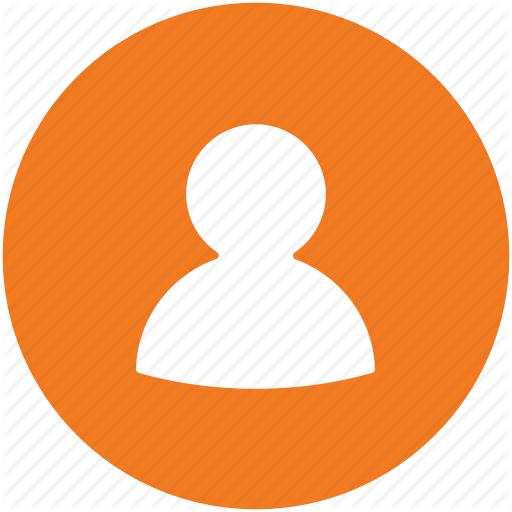
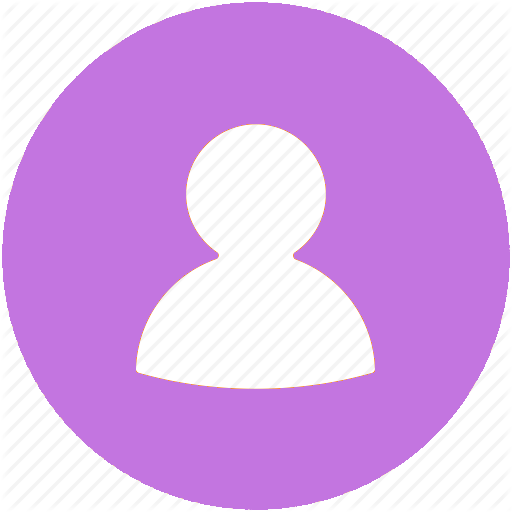
comments editable and deletable

diff --git a/app/assets/javascripts/prism.js b/app/assets/javascripts/prism.js
@@ -1,0 +1,5 @@
+/* PrismJS 1.17.1
+https://prismjs.com/download.html#themes=prism&languages=markup+visual-basic */
+var _self="undefined"!=typeof window?window:"undefined"!=typeof WorkerGlobalScope&&self instanceof WorkerGlobalScope?self:{},Prism=function(u){var c=/\blang(?:uage)?-([\w-]+)\b/i,a=0;var _={manual:u.Prism&&u.Prism.manual,disableWorkerMessageHandler:u.Prism&&u.Prism.disableWorkerMessageHandler,util:{encode:function(e){return e instanceof L?new L(e.type,_.util.encode(e.content),e.alias):Array.isArray(e)?e.map(_.util.encode):e.replace(/&/g,"&amp;").replace(/</g,"&lt;").replace(/\u00a0/g," ")},type:function(e){return Object.prototype.toString.call(e).slice(8,-1)},objId:function(e){return e.__id||Object.defineProperty(e,"__id",{value:++a}),e.__id},clone:function n(e,r){var t,a,i=_.util.type(e);switch(r=r||{},i){case"Object":if(a=_.util.objId(e),r[a])return r[a];for(var o in t={},r[a]=t,e)e.hasOwnProperty(o)&&(t[o]=n(e[o],r));return t;case"Array":return a=_.util.objId(e),r[a]?r[a]:(t=[],r[a]=t,e.forEach(function(e,a){t[a]=n(e,r)}),t);default:return e}}},languages:{extend:function(e,a){var n=_.util.clone(_.languages[e]);for(var r in a)n[r]=a[r];return n},insertBefore:function(n,e,a,r){var t=(r=r||_.languages)[n],i={};for(var o in t)if(t.hasOwnProperty(o)){if(o==e)for(var l in a)a.hasOwnProperty(l)&&(i[l]=a[l]);a.hasOwnProperty(o)||(i[o]=t[o])}var s=r[n];return r[n]=i,_.languages.DFS(_.languages,function(e,a){a===s&&e!=n&&(this[e]=i)}),i},DFS:function e(a,n,r,t){t=t||{};var i=_.util.objId;for(var o in a)if(a.hasOwnProperty(o)){n.call(a,o,a[o],r||o);var l=a[o],s=_.util.type(l);"Object"!==s||t[i(l)]?"Array"!==s||t[i(l)]||(t[i(l)]=!0,e(l,n,o,t)):(t[i(l)]=!0,e(l,n,null,t))}}},plugins:{},highlightAll:function(e,a){_.highlightAllUnder(document,e,a)},highlightAllUnder:function(e,a,n){var r={callback:n,selector:'code[class*="language-"], [class*="language-"] code, code[class*="lang-"], [class*="lang-"] code'};_.hooks.run("before-highlightall",r);for(var t,i=e.querySelectorAll(r.selector),o=0;t=i[o++];)_.highlightElement(t,!0===a,r.callback)},highlightElement:function(e,a,n){var r=function(e){for(;e&&!c.test(e.className);)e=e.parentNode;return e?(e.className.match(c)||[,"none"])[1].toLowerCase():"none"}(e),t=_.languages[r];e.className=e.className.replace(c,"").replace(/\s+/g," ")+" language-"+r;var i=e.parentNode;i&&"pre"===i.nodeName.toLowerCase()&&(i.className=i.className.replace(c,"").replace(/\s+/g," ")+" language-"+r);var o={element:e,language:r,grammar:t,code:e.textContent};function l(e){o.highlightedCode=e,_.hooks.run("before-insert",o),o.element.innerHTML=o.highlightedCode,_.hooks.run("after-highlight",o),_.hooks.run("complete",o),n&&n.call(o.element)}if(_.hooks.run("before-sanity-check",o),!o.code)return _.hooks.run("complete",o),void(n&&n.call(o.element));if(_.hooks.run("before-highlight",o),o.grammar)if(a&&u.Worker){var s=new Worker(_.filename);s.onmessage=function(e){l(e.data)},s.postMessage(JSON.stringify({language:o.language,code:o.code,immediateClose:!0}))}else l(_.highlight(o.code,o.grammar,o.language));else l(_.util.encode(o.code))},highlight:function(e,a,n){var r={code:e,grammar:a,language:n};return _.hooks.run("before-tokenize",r),r.tokens=_.tokenize(r.code,r.grammar),_.hooks.run("after-tokenize",r),L.stringify(_.util.encode(r.tokens),r.language)},matchGrammar:function(e,a,n,r,t,i,o){for(var l in n)if(n.hasOwnProperty(l)&&n[l]){var s=n[l];s=Array.isArray(s)?s:[s];for(var u=0;u<s.length;++u){if(o&&o==l+","+u)return;var c=s[u],g=c.inside,f=!!c.lookbehind,h=!!c.greedy,d=0,m=c.alias;if(h&&!c.pattern.global){var p=c.pattern.toString().match(/[imsuy]*$/)[0];c.pattern=RegExp(c.pattern.source,p+"g")}c=c.pattern||c;for(var y=r,v=t;y<a.length;v+=a[y].length,++y){var k=a[y];if(a.length>e.length)return;if(!(k instanceof L)){if(h&&y!=a.length-1){if(c.lastIndex=v,!(x=c.exec(e)))break;for(var b=x.index+(f&&x[1]?x[1].length:0),w=x.index+x[0].length,A=y,P=v,O=a.length;A<O&&(P<w||!a[A].type&&!a[A-1].greedy);++A)(P+=a[A].length)<=b&&(++y,v=P);if(a[y]instanceof L)continue;j=A-y,k=e.slice(v,P),x.index-=v}else{c.lastIndex=0;var x=c.exec(k),j=1}if(x){f&&(d=x[1]?x[1].length:0);w=(b=x.index+d)+(x=x[0].slice(d)).length;var N=k.slice(0,b),S=k.slice(w),C=[y,j];N&&(++y,v+=N.length,C.push(N));var E=new L(l,g?_.tokenize(x,g):x,m,x,h);if(C.push(E),S&&C.push(S),Array.prototype.splice.apply(a,C),1!=j&&_.matchGrammar(e,a,n,y,v,!0,l+","+u),i)break}else if(i)break}}}}},tokenize:function(e,a){var n=[e],r=a.rest;if(r){for(var t in r)a[t]=r[t];delete a.rest}return _.matchGrammar(e,n,a,0,0,!1),n},hooks:{all:{},add:function(e,a){var n=_.hooks.all;n[e]=n[e]||[],n[e].push(a)},run:function(e,a){var n=_.hooks.all[e];if(n&&n.length)for(var r,t=0;r=n[t++];)r(a)}},Token:L};function L(e,a,n,r,t){this.type=e,this.content=a,this.alias=n,this.length=0|(r||"").length,this.greedy=!!t}if(u.Prism=_,L.stringify=function(e,a){if("string"==typeof e)return e;if(Array.isArray(e))return e.map(function(e){return L.stringify(e,a)}).join("");var n={type:e.type,content:L.stringify(e.content,a),tag:"span",classes:["token",e.type],attributes:{},language:a};if(e.alias){var r=Array.isArray(e.alias)?e.alias:[e.alias];Array.prototype.push.apply(n.classes,r)}_.hooks.run("wrap",n);var t=Object.keys(n.attributes).map(function(e){return e+'="'+(n.attributes[e]||"").replace(/"/g,"&quot;")+'"'}).join(" ");return"<"+n.tag+' class="'+n.classes.join(" ")+'"'+(t?" "+t:"")+">"+n.content+"</"+n.tag+">"},!u.document)return u.addEventListener&&(_.disableWorkerMessageHandler||u.addEventListener("message",function(e){var a=JSON.parse(e.data),n=a.language,r=a.code,t=a.immediateClose;u.postMessage(_.highlight(r,_.languages[n],n)),t&&u.close()},!1)),_;var e=document.currentScript||[].slice.call(document.getElementsByTagName("script")).pop();if(e&&(_.filename=e.src,e.hasAttribute("data-manual")&&(_.manual=!0)),!_.manual){function n(){_.manual||_.highlightAll()}"loading"!==document.readyState?window.requestAnimationFrame?window.requestAnimationFrame(n):window.setTimeout(n,16):document.addEventListener("DOMContentLoaded",n)}return _}(_self);"undefined"!=typeof module&&module.exports&&(module.exports=Prism),"undefined"!=typeof global&&(global.Prism=Prism);
+Prism.languages.markup={comment:/<!--[\s\S]*?-->/,prolog:/<\?[\s\S]+?\?>/,doctype:{pattern:/<!DOCTYPE(?:[^>"'[\]]|"[^"]*"|'[^']*')+(?:\[(?:(?!<!--)[^"'\]]|"[^"]*"|'[^']*'|<!--[\s\S]*?-->)*\]\s*)?>/i,greedy:!0},cdata:/<!\[CDATA\[[\s\S]*?]]>/i,tag:{pattern:/<\/?(?!\d)[^\s>\/=$<%]+(?:\s(?:\s*[^\s>\/=]+(?:\s*=\s*(?:"[^"]*"|'[^']*'|[^\s'">=]+(?=[\s>]))|(?=[\s/>])))+)?\s*\/?>/i,greedy:!0,inside:{tag:{pattern:/^<\/?[^\s>\/]+/i,inside:{punctuation:/^<\/?/,namespace:/^[^\s>\/:]+:/}},"attr-value":{pattern:/=\s*(?:"[^"]*"|'[^']*'|[^\s'">=]+)/i,inside:{punctuation:[/^=/,{pattern:/^(\s*)["']|["']$/,lookbehind:!0}]}},punctuation:/\/?>/,"attr-name":{pattern:/[^\s>\/]+/,inside:{namespace:/^[^\s>\/:]+:/}}}},entity:/&#?[\da-z]{1,8};/i},Prism.languages.markup.tag.inside["attr-value"].inside.entity=Prism.languages.markup.entity,Prism.hooks.add("wrap",function(a){"entity"===a.type&&(a.attributes.title=a.content.replace(/&amp;/,"&"))}),Object.defineProperty(Prism.languages.markup.tag,"addInlined",{value:function(a,e){var s={};s["language-"+e]={pattern:/(^<!\[CDATA\[)[\s\S]+?(?=\]\]>$)/i,lookbehind:!0,inside:Prism.languages[e]},s.cdata=/^<!\[CDATA\[|\]\]>$/i;var n={"included-cdata":{pattern:/<!\[CDATA\[[\s\S]*?\]\]>/i,inside:s}};n["language-"+e]={pattern:/[\s\S]+/,inside:Prism.languages[e]};var t={};t[a]={pattern:RegExp("(<__[\\s\\S]*?>)(?:<!\\[CDATA\\[[\\s\\S]*?\\]\\]>\\s*|[\\s\\S])*?(?=<\\/__>)".replace(/__/g,a),"i"),lookbehind:!0,greedy:!0,inside:n},Prism.languages.insertBefore("markup","cdata",t)}}),Prism.languages.xml=Prism.languages.extend("markup",{}),Prism.languages.html=Prism.languages.markup,Prism.languages.mathml=Prism.languages.markup,Prism.languages.svg=Prism.languages.markup;
+Prism.languages["visual-basic"]={comment:{pattern:/(?:['‘’]|REM\b).*/i,inside:{keyword:/^REM/i}},directive:{pattern:/#(?:Const|Else|ElseIf|End|ExternalChecksum|ExternalSource|If|Region)(?:[^\S\r\n]_[^\S\r\n]*(?:\r\n?|\n)|.)+/i,alias:"comment",greedy:!0},string:{pattern:/\$?["“”](?:["“”]{2}|[^"“”])*["“”]C?/i,greedy:!0},date:{pattern:/#[^\S\r\n]*(?:\d+([/-])\d+\1\d+(?:[^\S\r\n]+(?:\d+[^\S\r\n]*(?:AM|PM)|\d+:\d+(?::\d+)?(?:[^\S\r\n]*(?:AM|PM))?))?|(?:\d+[^\S\r\n]*(?:AM|PM)|\d+:\d+(?::\d+)?(?:[^\S\r\n]*(?:AM|PM))?))[^\S\r\n]*#/i,alias:"builtin"},number:/(?:(?:\b\d+(?:\.\d+)?|\.\d+)(?:E[+-]?\d+)?|&[HO][\dA-F]+)(?:U?[ILS]|[FRD])?/i,boolean:/\b(?:True|False|Nothing)\b/i,keyword:/\b(?:AddHandler|AddressOf|Alias|And(?:Also)?|As|Boolean|ByRef|Byte|ByVal|Call|Case|Catch|C(?:Bool|Byte|Char|Date|Dbl|Dec|Int|Lng|Obj|SByte|Short|Sng|Str|Type|UInt|ULng|UShort)|Char|Class|Const|Continue|Date|Decimal|Declare|Default|Delegate|Dim|DirectCast|Do|Double|Each|Else(?:If)?|End(?:If)?|Enum|Erase|Error|Event|Exit|Finally|For|Friend|Function|Get(?:Type|XMLNamespace)?|Global|GoSub|GoTo|Handles|If|Implements|Imports|In|Inherits|Integer|Interface|Is|IsNot|Let|Lib|Like|Long|Loop|Me|Mod|Module|Must(?:Inherit|Override)|My(?:Base|Class)|Namespace|Narrowing|New|Next|Not(?:Inheritable|Overridable)?|Object|Of|On|Operator|Option(?:al)?|Or(?:Else)?|Out|Overloads|Overridable|Overrides|ParamArray|Partial|Private|Property|Protected|Public|RaiseEvent|ReadOnly|ReDim|RemoveHandler|Resume|Return|SByte|Select|Set|Shadows|Shared|short|Single|Static|Step|Stop|String|Structure|Sub|SyncLock|Then|Throw|To|Try|TryCast|TypeOf|U(?:Integer|Long|Short)|Using|Variant|Wend|When|While|Widening|With(?:Events)?|WriteOnly|Xor)\b/i,operator:[/[+\-*/\\^<=>&#@$%!]/,{pattern:/([^\S\r\n])_(?=[^\S\r\n]*[\r\n])/,lookbehind:!0}],punctuation:/[{}().,:?]/},Prism.languages.vb=Prism.languages["visual-basic"];

diff --git a/app/assets/stylesheets/prism.css b/app/assets/stylesheets/prism.css
@@ -1,0 +1,142 @@
+/* PrismJS 1.17.1
+https://prismjs.com/download.html#themes=prism&languages=markup+visual-basic */
+/**
+ * prism.js default theme for JavaScript, CSS and HTML
+ * Based on dabblet (http://dabblet.com)
+ * @author Lea Verou
+ */
+
+code[class*="language-"],
+pre[class*="language-"] {
+	color: black;
+	background: none;
+	text-shadow: 0 1px white;
+	font-family: Consolas, Monaco, 'Andale Mono', 'Ubuntu Mono', monospace;
+	font-size: 1em;
+	text-align: left;
+	white-space: pre;
+	word-spacing: normal;
+	word-break: normal;
+	word-wrap: normal;
+	line-height: 1.5;
+
+	-moz-tab-size: 4;
+	-o-tab-size: 4;
+	tab-size: 4;
+
+	-webkit-hyphens: none;
+	-moz-hyphens: none;
+	-ms-hyphens: none;
+	hyphens: none;
+}
+
+pre[class*="language-"]::-moz-selection, pre[class*="language-"] ::-moz-selection,
+code[class*="language-"]::-moz-selection, code[class*="language-"] ::-moz-selection {
+	text-shadow: none;
+	background: #b3d4fc;
+}
+
+pre[class*="language-"]::selection, pre[class*="language-"] ::selection,
+code[class*="language-"]::selection, code[class*="language-"] ::selection {
+	text-shadow: none;
+	background: #b3d4fc;
+}
+
+@media print {
+	code[class*="language-"],
+	pre[class*="language-"] {
+		text-shadow: none;
+	}
+}
+
+/* Code blocks */
+pre[class*="language-"] {
+	padding: 1em;
+	margin: .5em 0;
+	overflow: auto;
+}
+
+:not(pre) > code[class*="language-"],
+pre[class*="language-"] {
+	background: #f5f2f0;
+}
+
+/* Inline code */
+:not(pre) > code[class*="language-"] {
+	padding: .1em;
+	border-radius: .3em;
+	white-space: normal;
+}
+
+.token.comment,
+.token.prolog,
+.token.doctype,
+.token.cdata {
+	color: slategray;
+}
+
+.token.punctuation {
+	color: #999;
+}
+
+.namespace {
+	opacity: .7;
+}
+
+.token.property,
+.token.tag,
+.token.boolean,
+.token.number,
+.token.constant,
+.token.symbol,
+.token.deleted {
+	color: #905;
+}
+
+.token.selector,
+.token.attr-name,
+.token.string,
+.token.char,
+.token.builtin,
+.token.inserted {
+	color: #690;
+}
+
+.token.operator,
+.token.entity,
+.token.url,
+.language-css .token.string,
+.style .token.string {
+	color: #9a6e3a;
+	background: hsla(0, 0%, 100%, .5);
+}
+
+.token.atrule,
+.token.attr-value,
+.token.keyword {
+	color: #07a;
+}
+
+.token.function,
+.token.class-name {
+	color: #DD4A68;
+}
+
+.token.regex,
+.token.important,
+.token.variable {
+	color: #e90;
+}
+
+.token.important,
+.token.bold {
+	font-weight: bold;
+}
+.token.italic {
+	font-style: italic;
+}
+
+.token.entity {
+	cursor: help;
+}
+

diff --git a/app/assets/stylesheets/components/_tag.scss b/app/assets/stylesheets/components/_tag.scss
@@ -1,0 +1,33 @@
+// .link-tags {
+//   color: #C375E0;
+// }
+
+// .link-tags:hover {
+//   text-decoration: none;
+//   color: #643575;
+// }
+
+.tag {
+  border: 1px #C375E0 solid;
+  font-family: 'Open sans', sans-serif;
+  font-size: .75rem;
+  color: #C375E0;
+  padding: .1875rem .5rem;
+  border-radius: 1.125rem;
+  text-transform: uppercase;
+  letter-spacing: 1px;
+  display: inline-block;
+  cursor: pointer;
+  text-decoration: none;
+  transition: all .3s ease-in-out;
+
+  &:hover {
+    background: #C375E0;
+    color: #fff;
+    text-decoration: none;
+  }
+
+  &:not(:first-of-type) {
+    margin-left: .3125rem;
+  }
+}

diff --git a/app/assets/stylesheets/components/_buttons.scss b/app/assets/stylesheets/components/_buttons.scss
@@ -16,12 +16,23 @@
   padding-top: 3px;
   padding-bottom: 3px;
   margin-top: 6px;
-  color: #F17B20;
+  color: #C375E0;
   background-color: white;
-  border: #F17B20 solid 1px;
+  border: #C375E0 solid 1px;
 }
 
 .apply-filter:hover {
   color: white;
-  background-color: #F17B20;
+  background-color: #C375E0;
+}
+
+.btn-purple {
+  background-color: white;
+  color: #C375E0;
+  border: #C375E0 solid 1px;
+}
+
+.btn-purple:hover {
+  background-color: #C375E0;
+  color: white;
 }

diff --git a/app/assets/stylesheets/pages/_main.scss b/app/assets/stylesheets/pages/_main.scss
@@ -6,5 +6,17 @@
 
 .fa-star {
   font-size: 24px;
-  color: #F17B20;
+  color: #FECB00;
+}
+
+pre, code {
+  font-family: monospace, monospace;
+}
+pre {
+  overflow: auto;
+}
+pre > code {
+  display: block;
+  padding: 1rem;
+  word-wrap: normal;
 }

diff --git a/app/assets/stylesheets/components/_filters.scss b/app/assets/stylesheets/components/_filters.scss
@@ -20,12 +20,3 @@
   text-decoration: none;
   color: black;
 }
-
-.link-tags {
-  color: #9355aa;
-}
-
-.link-tags:hover {
-  text-decoration: none;
-  color: #643575;
-}

diff --git a/app/assets/stylesheets/components/_comment.scss b/app/assets/stylesheets/components/_comment.scss
@@ -39,4 +39,5 @@
 
 .comment .comment-actions a:hover {
   color: #555555;
+  text-decoration: none;
 }

diff --git a/app/assets/stylesheets/components/_index.scss b/app/assets/stylesheets/components/_index.scss
@@ -10,3 +10,4 @@
 @import "banner";
 @import "filters";
 @import "comment";
+@import "tag";

diff --git a/app/controllers/comments_controller.rb b/app/controllers/comments_controller.rb
@@ -1,5 +1,6 @@
 class CommentsController < ApplicationController
-  before_action :set_macro, only: [:create]
+  before_action :set_macro, only: [:edit, :create, :update, :destroy]
+  before_action :set_comment, only: [:edit, :update, :destroy]
 
   def new
     @comment = Comment.new
@@ -12,8 +13,28 @@ class CommentsController < ApplicationController
 
     if @comment.save
       redirect_to macro_path(@macro), notice: 'New comment successfully added!'
-    # else
-    #   render :new
+    else
+      render 'macros/new'
+    end
+  end
+
+  def edit
+    render 'macros/show'
+  end
+
+  def update
+    if @comment.update(comment_params)
+      redirect_to macro_path(@macro), notice: 'Comment successfully updated!'
+    else
+      render 'macros/edit'
+    end
+  end
+
+  def destroy
+    if @comment.destroy
+      redirect_to macro_path(@macro), notice: 'Comment successfully deleted!'
+    else
+      render 'macros/show'
     end
   end
 
@@ -25,5 +46,9 @@ class CommentsController < ApplicationController
 
   def set_macro
     @macro = Macro.find(params[:macro_id])
+  end
+
+  def set_comment
+    @comment = Comment.find(params[:id])
   end
 end
